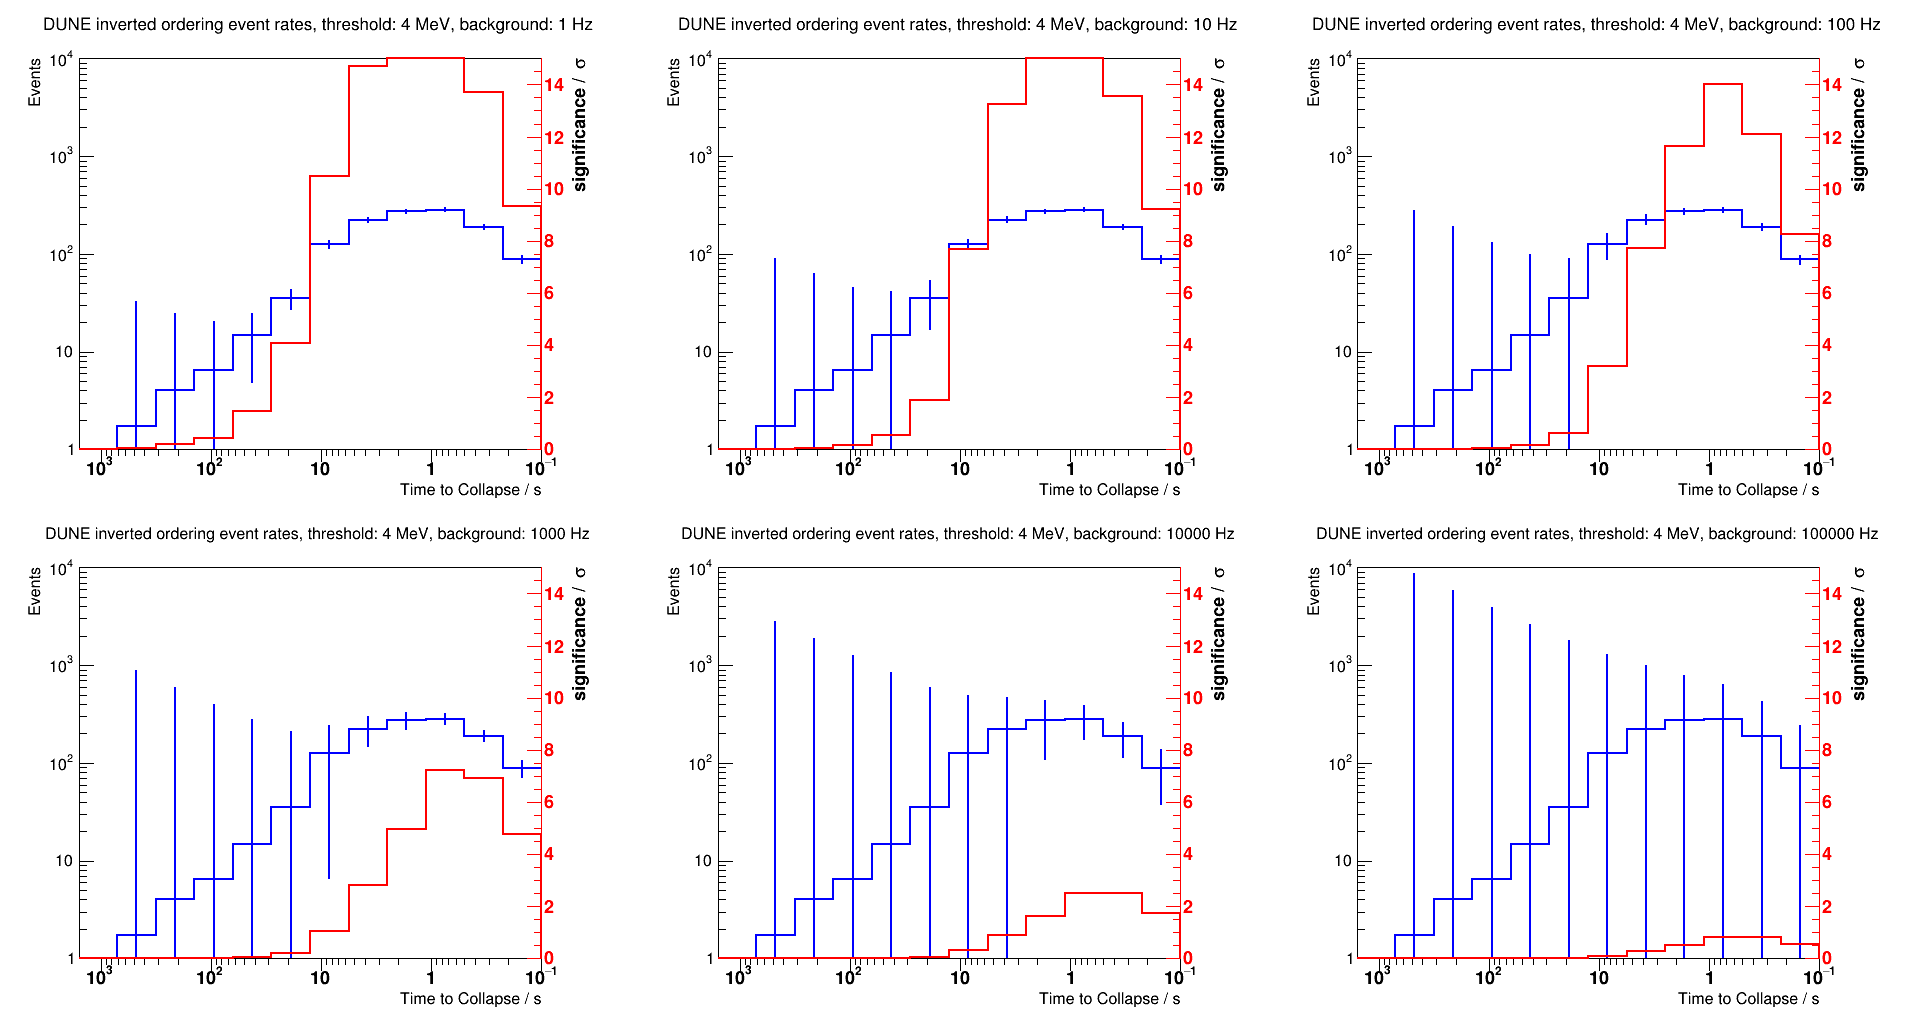
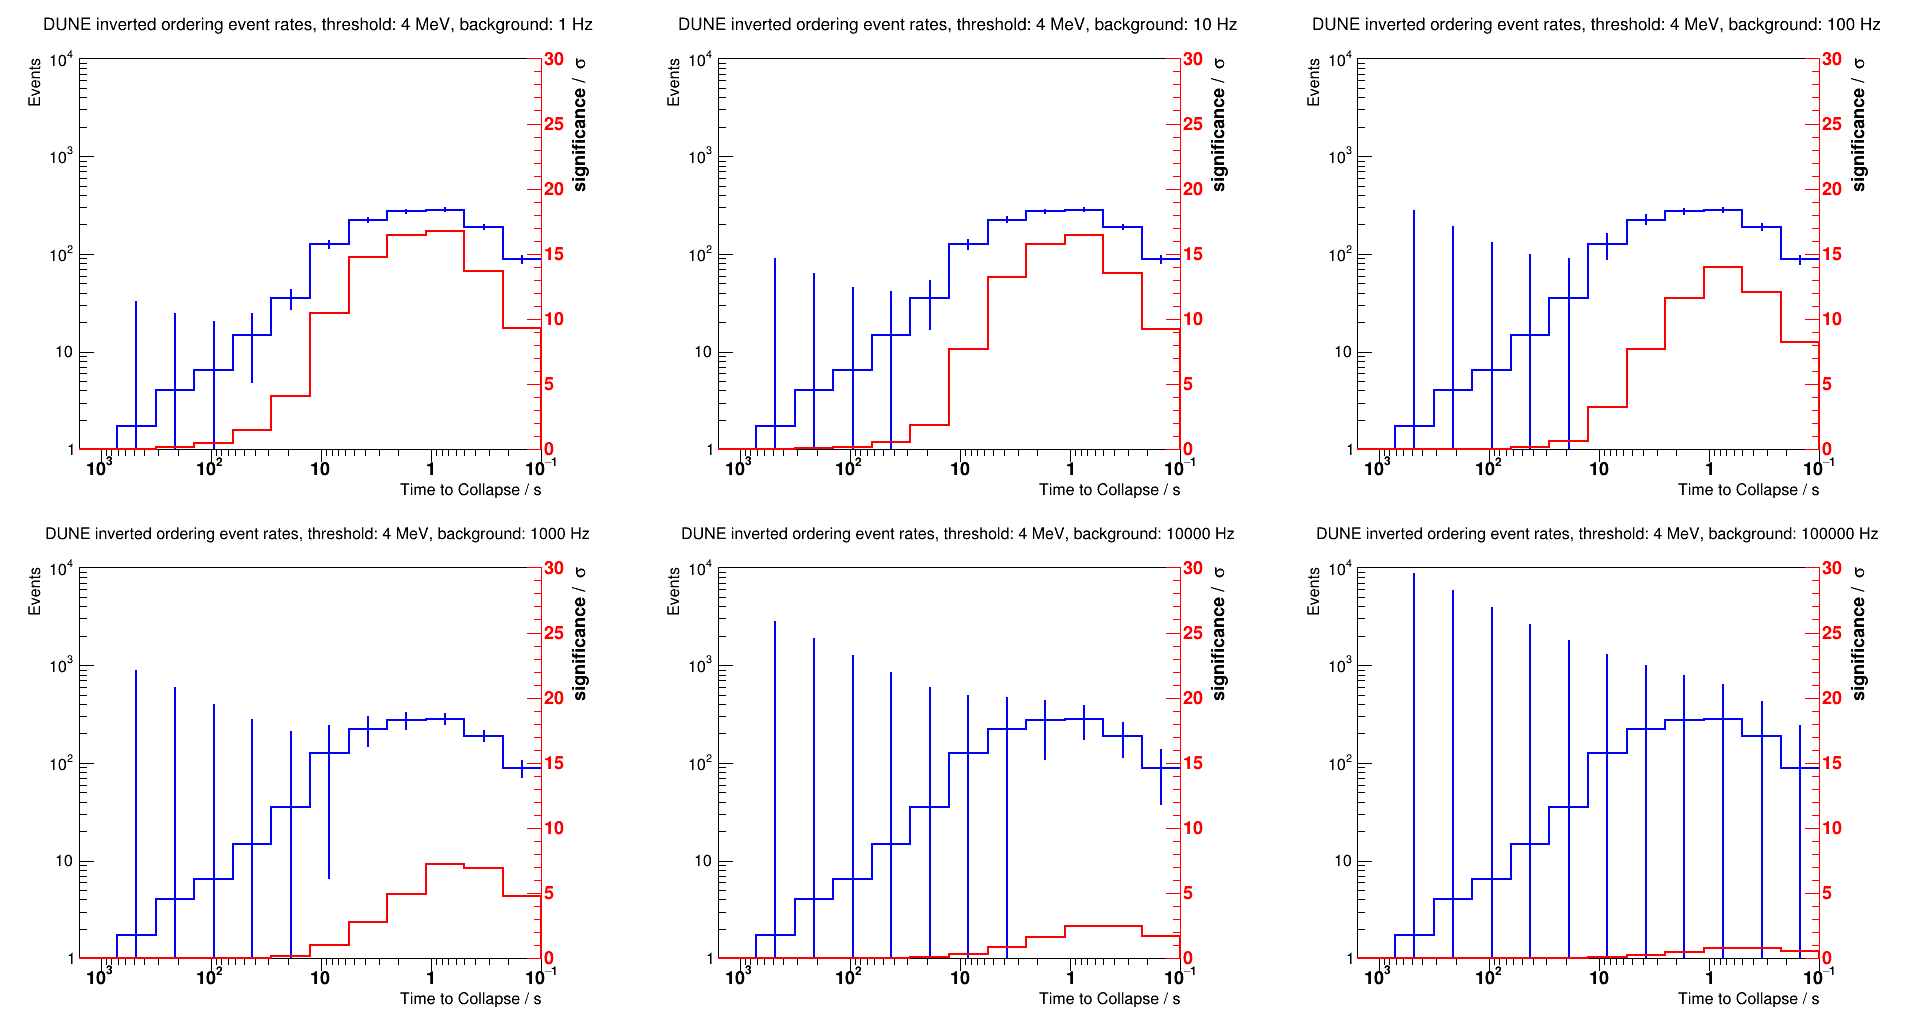
Updated Background Significance Scaling

diff --git a/src/drawbg.C b/src/drawbg.C
@@ -2,131 +2,134 @@
 #include <string>
 void drawbg(std::string filepath, std::string detector, std::string ordering, double sigmaUp, bool include_bg)
 {
-// array of backgrounds [1/s]
-const int bgl = 7;
-double backgrounds [] = {0, pow(10,0), pow(10,1), pow(10,2), pow(10,3), pow(10,4), pow(10,5)};
-  
-int thl = 2;
-double thresholds [] = {0, 4};
-  
-TFile file (filepath.c_str());
+    // array of backgrounds [1/s]
+    const int bgl = 7;
+    double backgrounds[] = {0, pow(10, 0), pow(10, 1), pow(10, 2), pow(10, 3), pow(10, 4), pow(10, 5)};
 
-gStyle->SetTitleW(1);
-gStyle->SetOptStat ( 0 );
-gStyle->SetOptTitle ( 1 );
-gStyle->SetCanvasColor(0);
-gStyle->SetPadLeftMargin(0.1);
-gStyle->SetPadRightMargin(0.13);
+    int thl = 2;
+    double thresholds[] = {0, 4};
 
-  TCanvas * canvas = new TCanvas( "canvas", "multipads", 1600, 1000);
-  canvas->Divide(3,2);
+    TFile file(filepath.c_str());
 
-for ( int i = 0; i < thl; i++ )
-{
-  std::stringstream ssi;
-  ssi << thresholds[i];
-  
-  std::string thstring;
-  std::string bgstring;
-  std::string savepath;
+    gStyle->SetTitleW(1);
+    gStyle->SetOptStat(0);
+    gStyle->SetOptTitle(1);
+    gStyle->SetCanvasColor(0);
+    gStyle->SetPadLeftMargin(0.1);
+    gStyle->SetPadRightMargin(0.13);
 
+    TCanvas *canvas = new TCanvas("canvas", "multipads", 1600, 1000);
+    canvas->Divide(3, 2);
 
-  for ( int j = 1; j < bgl; j++ )
-  {      
-    std::stringstream ssj;
-    ssj << std::setprecision(0) << std::fixed << backgrounds[j];
-    
-    thstring = ssi.str();
-    bgstring = ssj.str();
-    
-    savepath = std::string("../output/histograms/background/") + detector + std::string("_") + ordering + std::string("_th") + thstring ;
-    if ( include_bg ) savepath = savepath + std::string("_withbg");
-    savepath = savepath + std::string(".png");
-    
-    std::string histname = std::string("sum_th") + thstring + std::string("_bg") + bgstring + std::string("_energyIntegral");
-    if ( include_bg ) histname = histname + std::string("_withbg");
-    
-    std::string bgname = std::string("bg_") + bgstring;
-    
-    std::string histtitle = detector + std::string(" ") + ordering + std::string(" ordering event rates, threshold: ") + ssi.str() + std::string(" MeV, background: ") + ssj.str() + std::string(" Hz");
-    
-    canvas->cd(j);
-    
-    TH1D * hist = (TH1D*)file.Get(histname.c_str());
-    TH1D * bg   = (TH1D*)file.Get(bgname.c_str());
-
-    hist->SetStats(0);
-    
-    hist->SetTitle(histtitle.c_str());
-    
-    hist->GetXaxis()->SetTitle("Time to Collapse / s");
-    hist->GetXaxis()->SetTitleOffset(1.5);
-
-    hist->GetYaxis()->SetTitle("Events");
-    hist->GetYaxis()->SetTitleOffset(1.3);
-    hist->GetYaxis()->SetRangeUser(1, pow(10,4));
-    gPad->SetLogy();
-
-    // Remove the current axis
-    hist->GetXaxis()->SetLabelOffset(999);
-    hist->GetXaxis()->SetTickLength(0);
-    hist->GetXaxis()->SetRangeUser(-3,1);
-
-    hist->SetLineColor(kBlue);
-    hist->SetLineWidth(2);
-   
-    hist->DrawCopy("EHIST");
-    if(include_bg) bg->DrawCopy("SAME");
-
-    // Redraw the new axis
-    gPad->Update();
-
-    double xmin = gPad->GetUxmin();
-    double xmax = gPad->GetUxmax();
-    double ymin = gPad->GetUymin();
-    double ymax = gPad->GetUymax();
-  
-    TGaxis newaxis ( xmax, ymin, xmin, ymin, pow(10,-xmax),pow(10,-xmin),310,"G");
-    newaxis.SetLabelOffset(-0.1);
-    newaxis.DrawClone();
-  
-    // create sigma histogram
-    std::string sigmaname = histname + std::string("_sigma");
-    TH1D * sigma = new TH1D(sigmaname.c_str(), histtitle.c_str(), hist->GetNbinsX(), hist->GetXaxis()->GetXmin(), hist->GetXaxis()->GetXmax());
-    
-    for ( int k = 1; k <= hist->GetNbinsX(); k++ )
+    for (int i = 0; i < thl; i++)
     {
-      if ( include_bg )
-	sigma->SetBinContent(k, pow(10, (( hist->GetBinContent(k) - bg->GetBinContent(k) )   / hist->GetBinError(k) ) ) );
-      else 
-	sigma->SetBinContent(k, pow(10,(hist->GetBinContent(k) / hist->GetBinError(k) ) ) );
-    }
-    
-    // draw sigma histogram
-    double rightmax = 1*log10(sigma->GetMaximum());
-   double scale = gPad->GetUymax()/sigmaUp;
-  
-   // scale according to log scale
-   for ( int k = 1; k <= hist->GetNbinsX(); k++ )
-    {
-      sigma->SetBinContent(k, pow(sigma->GetBinContent(k), scale)); 
-    }
-   
-   sigma->SetLineColor(kRed);
-   sigma->SetLineWidth(2);
-   sigma->DrawCopy("same");
+        std::stringstream ssi;
+        ssi << thresholds[i];
 
-   //draw an axis on the right side
-   TGaxis axis (xmax, pow(10,ymin), xmax, pow(10,ymax), 0, sigmaUp, 510, "+L");
-   axis.SetLineColor(kRed);
-   axis.SetTitle("significance / #sigma");
-   axis.SetLabelColor(kRed);
-   axis.DrawClone(); 
-  }
-    // create png file
-  canvas->Print(savepath.c_str()); 
-  std::cout << "Threshold: " << thstring << " MeV" << std::endl;
-}     
-std::cout << "finished" << std::endl;
-file.Close();
+        std::string thstring;
+        std::string bgstring;
+        std::string savepath;
+
+        for (int j = 1; j < bgl; j++)
+        {
+            std::stringstream ssj;
+            ssj << std::setprecision(0) << std::fixed << backgrounds[j];
+
+            thstring = ssi.str();
+            bgstring = ssj.str();
+
+            savepath = std::string("../output/histograms/background/") + detector + std::string("_") + ordering + std::string("_th") + thstring;
+            if (include_bg)
+                savepath = savepath + std::string("_withbg");
+            savepath = savepath + std::string(".png");
+
+            std::string histname = std::string("sum_th") + thstring + std::string("_bg") + bgstring + std::string("_energyIntegral");
+            if (include_bg)
+                histname = histname + std::string("_withbg");
+
+            std::string bgname = std::string("bg_") + bgstring;
+
+            std::string histtitle = detector + std::string(" ") + ordering + std::string(" ordering event rates, threshold: ") + ssi.str() + std::string(" MeV, background: ") + ssj.str() + std::string(" Hz");
+
+            canvas->cd(j);
+
+            TH1D *hist = (TH1D *)file.Get(histname.c_str());
+            TH1D *bg = (TH1D *)file.Get(bgname.c_str());
+
+            hist->SetStats(0);
+
+            hist->SetTitle(histtitle.c_str());
+
+            hist->GetXaxis()->SetTitle("Time to Collapse / s");
+            hist->GetXaxis()->SetTitleOffset(1.5);
+
+            hist->GetYaxis()->SetTitle("Events");
+            hist->GetYaxis()->SetTitleOffset(1.3);
+            hist->GetYaxis()->SetRangeUser(1, pow(10, 4));
+            gPad->SetLogy();
+
+            // Remove the current axis
+            hist->GetXaxis()->SetLabelOffset(999);
+            hist->GetXaxis()->SetTickLength(0);
+            hist->GetXaxis()->SetRangeUser(-3, 1);
+
+            hist->SetLineColor(kBlue);
+            hist->SetLineWidth(2);
+
+            hist->DrawCopy("EHIST");
+            if (include_bg)
+                bg->DrawCopy("SAME");
+
+            // Redraw the new axis
+            gPad->Update();
+
+            double xmin = gPad->GetUxmin();
+            double xmax = gPad->GetUxmax();
+            double ymin = gPad->GetUymin();
+            double ymax = gPad->GetUymax();
+
+            TGaxis newaxis(xmax, ymin, xmin, ymin, pow(10, -xmax), pow(10, -xmin), 310, "G");
+            newaxis.SetLabelOffset(-0.1);
+            newaxis.DrawClone();
+
+            // create sigma histogram
+            std::string sigmaname = histname + std::string("_sigma");
+            TH1D *sigma = new TH1D(sigmaname.c_str(), histtitle.c_str(), hist->GetNbinsX(), hist->GetXaxis()->GetXmin(), hist->GetXaxis()->GetXmax());
+
+            for (int k = 1; k <= hist->GetNbinsX(); k++)
+            {
+                if (include_bg)
+                    sigma->SetBinContent(k, pow(10, ((hist->GetBinContent(k) - bg->GetBinContent(k)) / hist->GetBinError(k))));
+                else
+                    sigma->SetBinContent(k, pow(10, (hist->GetBinContent(k) / hist->GetBinError(k))));
+            }
+
+            // draw sigma histogram
+            //double right_max = log10(sigma->GetMaximum());
+            //cout << right_max << endl;
+            double scale = gPad->GetUymax() / sigmaUp;  // scale between two verticle axis
+
+            // scale according to log scale
+            for (int k = 1; k <= hist->GetNbinsX(); k++)
+            {
+                sigma->SetBinContent(k, pow(sigma->GetBinContent(k), scale));
+            }
+
+            sigma->SetLineColor(kRed);
+            sigma->SetLineWidth(2);
+            sigma->DrawCopy("same");
+
+            //draw an axis on the right side
+            TGaxis axis(xmax, pow(10, ymin), xmax, pow(10, ymax), 0, sigmaUp, 510, "+L");
+            axis.SetLineColor(kRed);
+            axis.SetTitle("significance / #sigma");
+            axis.SetLabelColor(kRed);
+            axis.DrawClone();
+        }
+        // create png file
+        canvas->Print(savepath.c_str());
+        std::cout << "Threshold: " << thstring << " MeV" << std::endl;
+    }
+    //std::cout << "finished" << std::endl;
+    file.Close();
 }

diff --git a/src/drawBackground.C b/src/drawBackground.C
@@ -2,7 +2,13 @@
 std::string detectors [] = {"DUNE", "JUNO", "HYPERK"};
 std::string ordering [] = {"normal", "inverted"};
 
-double sigmaUp [3][2]; sigmaUp[0][0] = 15; sigmaUp[0][1] = 15; sigmaUp[1][0] = 15; sigmaUp[1][1] = 15; sigmaUp[2][0] = 15; sigmaUp[2][1] = 20;
+double sigmaUp [3][2]; 
+sigmaUp[0][0] = 20; 
+sigmaUp[0][1] = 30; 
+sigmaUp[1][0] = 20; 
+sigmaUp[1][1] = 20; 
+sigmaUp[2][0] = 20; 
+sigmaUp[2][1] = 20;
 
 gStyle->SetOptStat ( 0 );
   gStyle->SetOptTitle ( 0 );
@@ -15,7 +21,7 @@ for ( int i = 0; i < 3; i++ )
   for ( int j = 0; j < 2; j++ )
   {
     std::string filepath = std::string("../output/ROOT/") + detectors[i] + std::string("_") + ordering[j] + std::string(".root");
-    gROOT->ProcessLine((std::string(".x drawbg.C(\"")+ filepath + "\", \""+ detectors[i]+ "\", \"" +ordering[j]+"\", " + sigmaUp[i][j]+", true)").Data());
+    //gROOT->ProcessLine((std::string(".x drawbg.C(\"")+ filepath + "\", \""+ detectors[i]+ "\", \"" +ordering[j]+"\", " + sigmaUp[i][j]+", true)").Data());
     gROOT->ProcessLine((std::string(".x drawbg.C(\"")+ filepath + "\", \""+ detectors[i]+ "\", \"" +ordering[j]+"\", "+ sigmaUp[i][j]+", false)").Data());
     gROOT->ProcessLine((std::string(".x bgdist.C(\"")+ filepath + "\", \""+ detectors[i]+ "\", \"" +ordering[j]+"\", 10.)").c_str());      
   }
